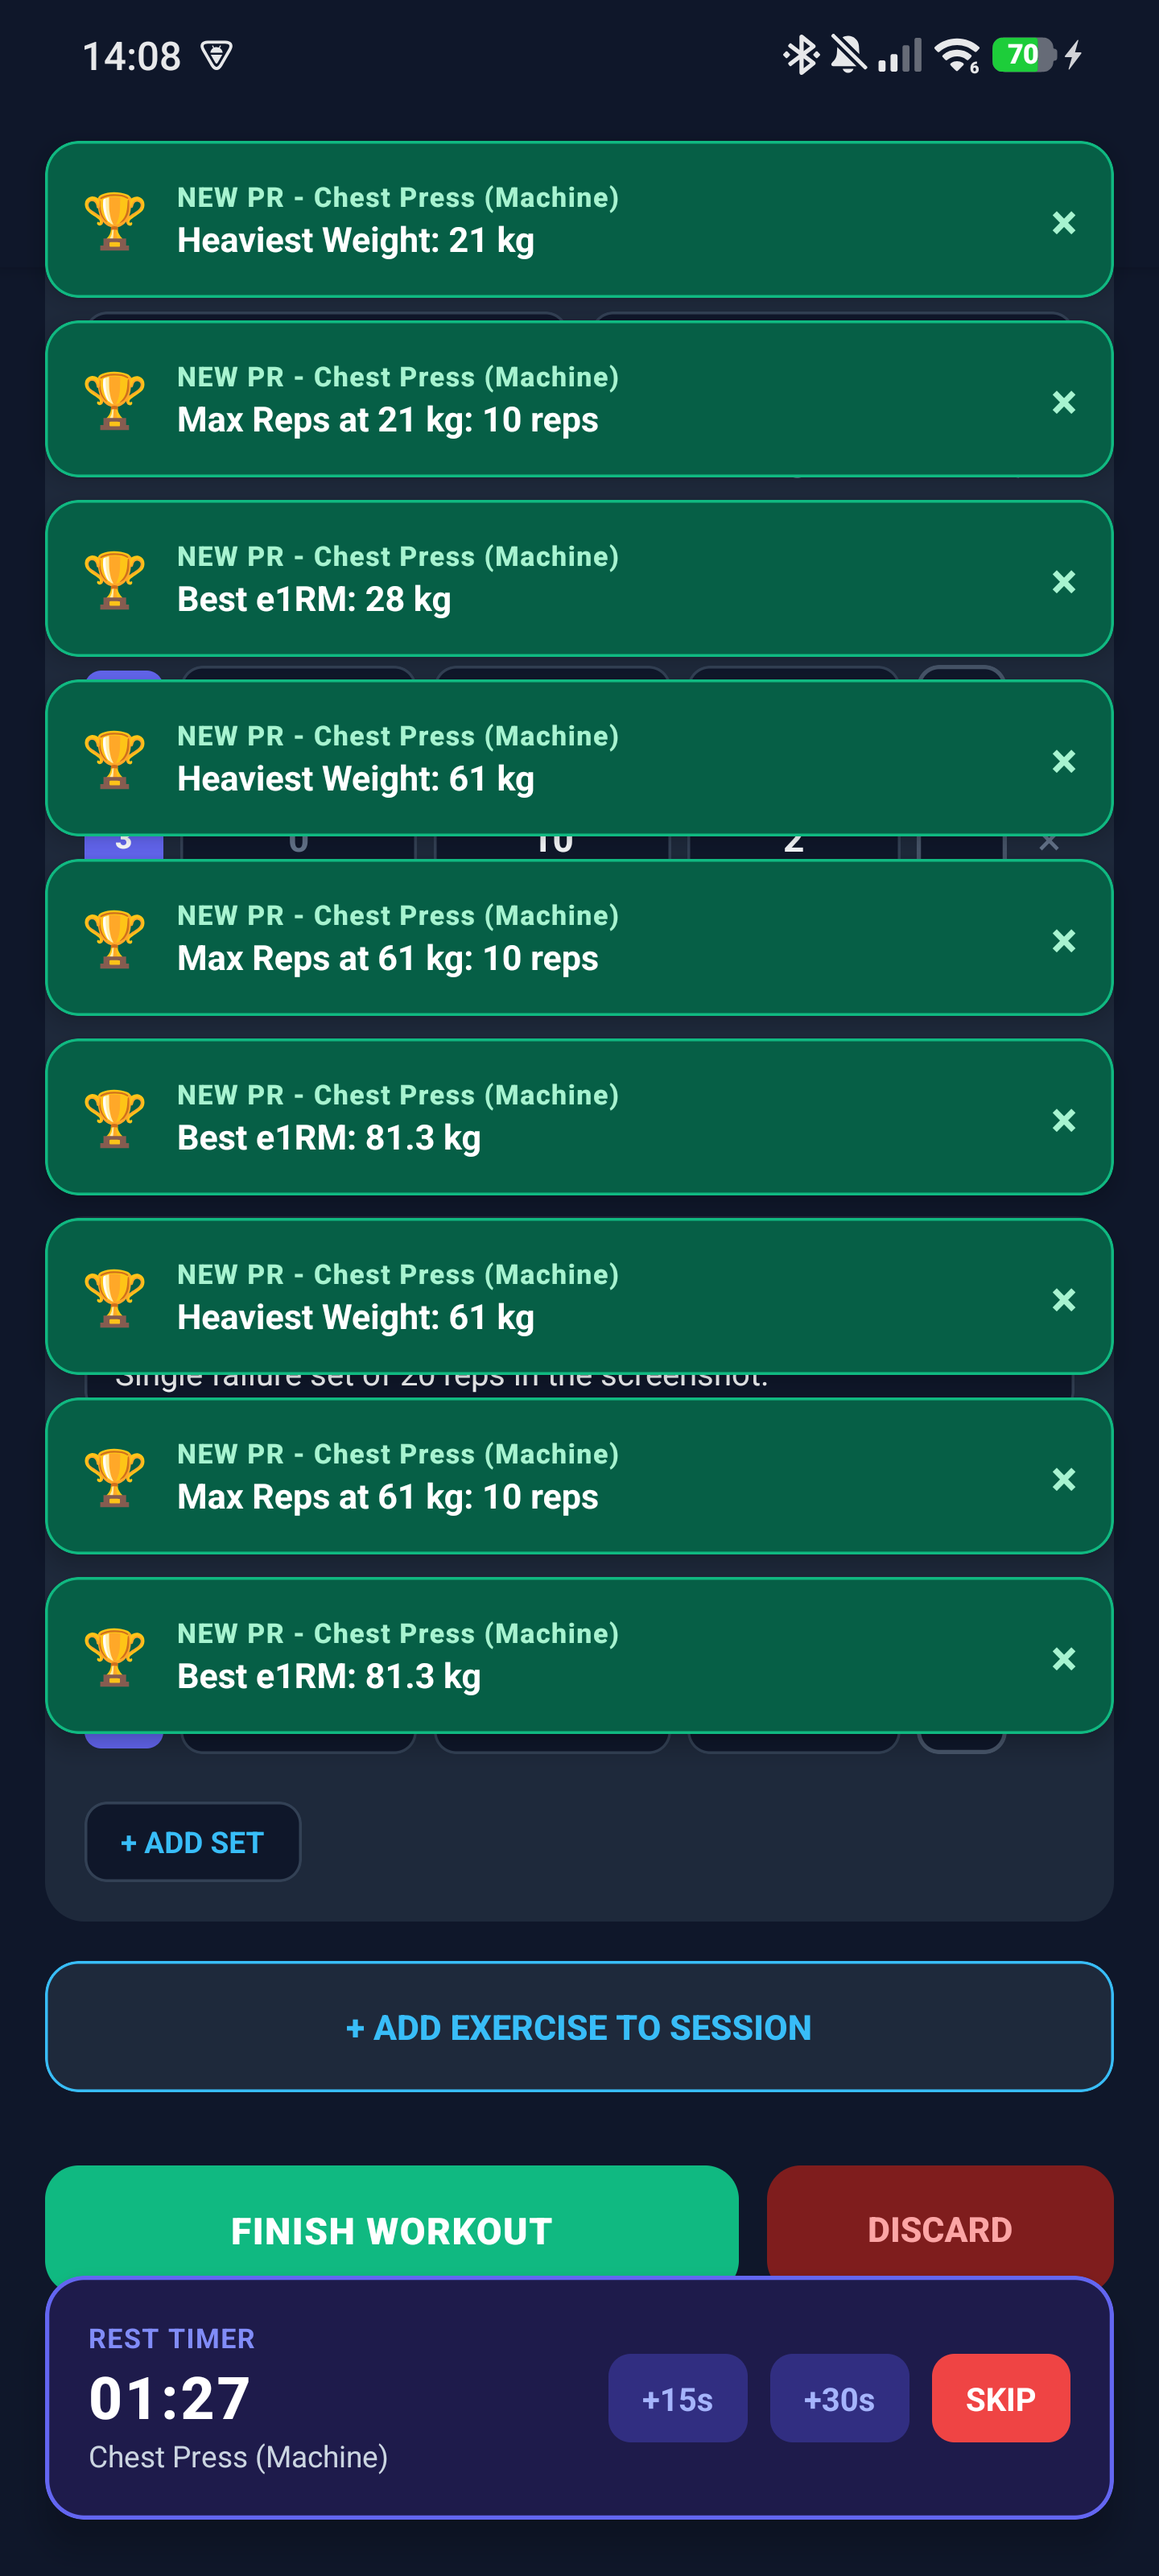
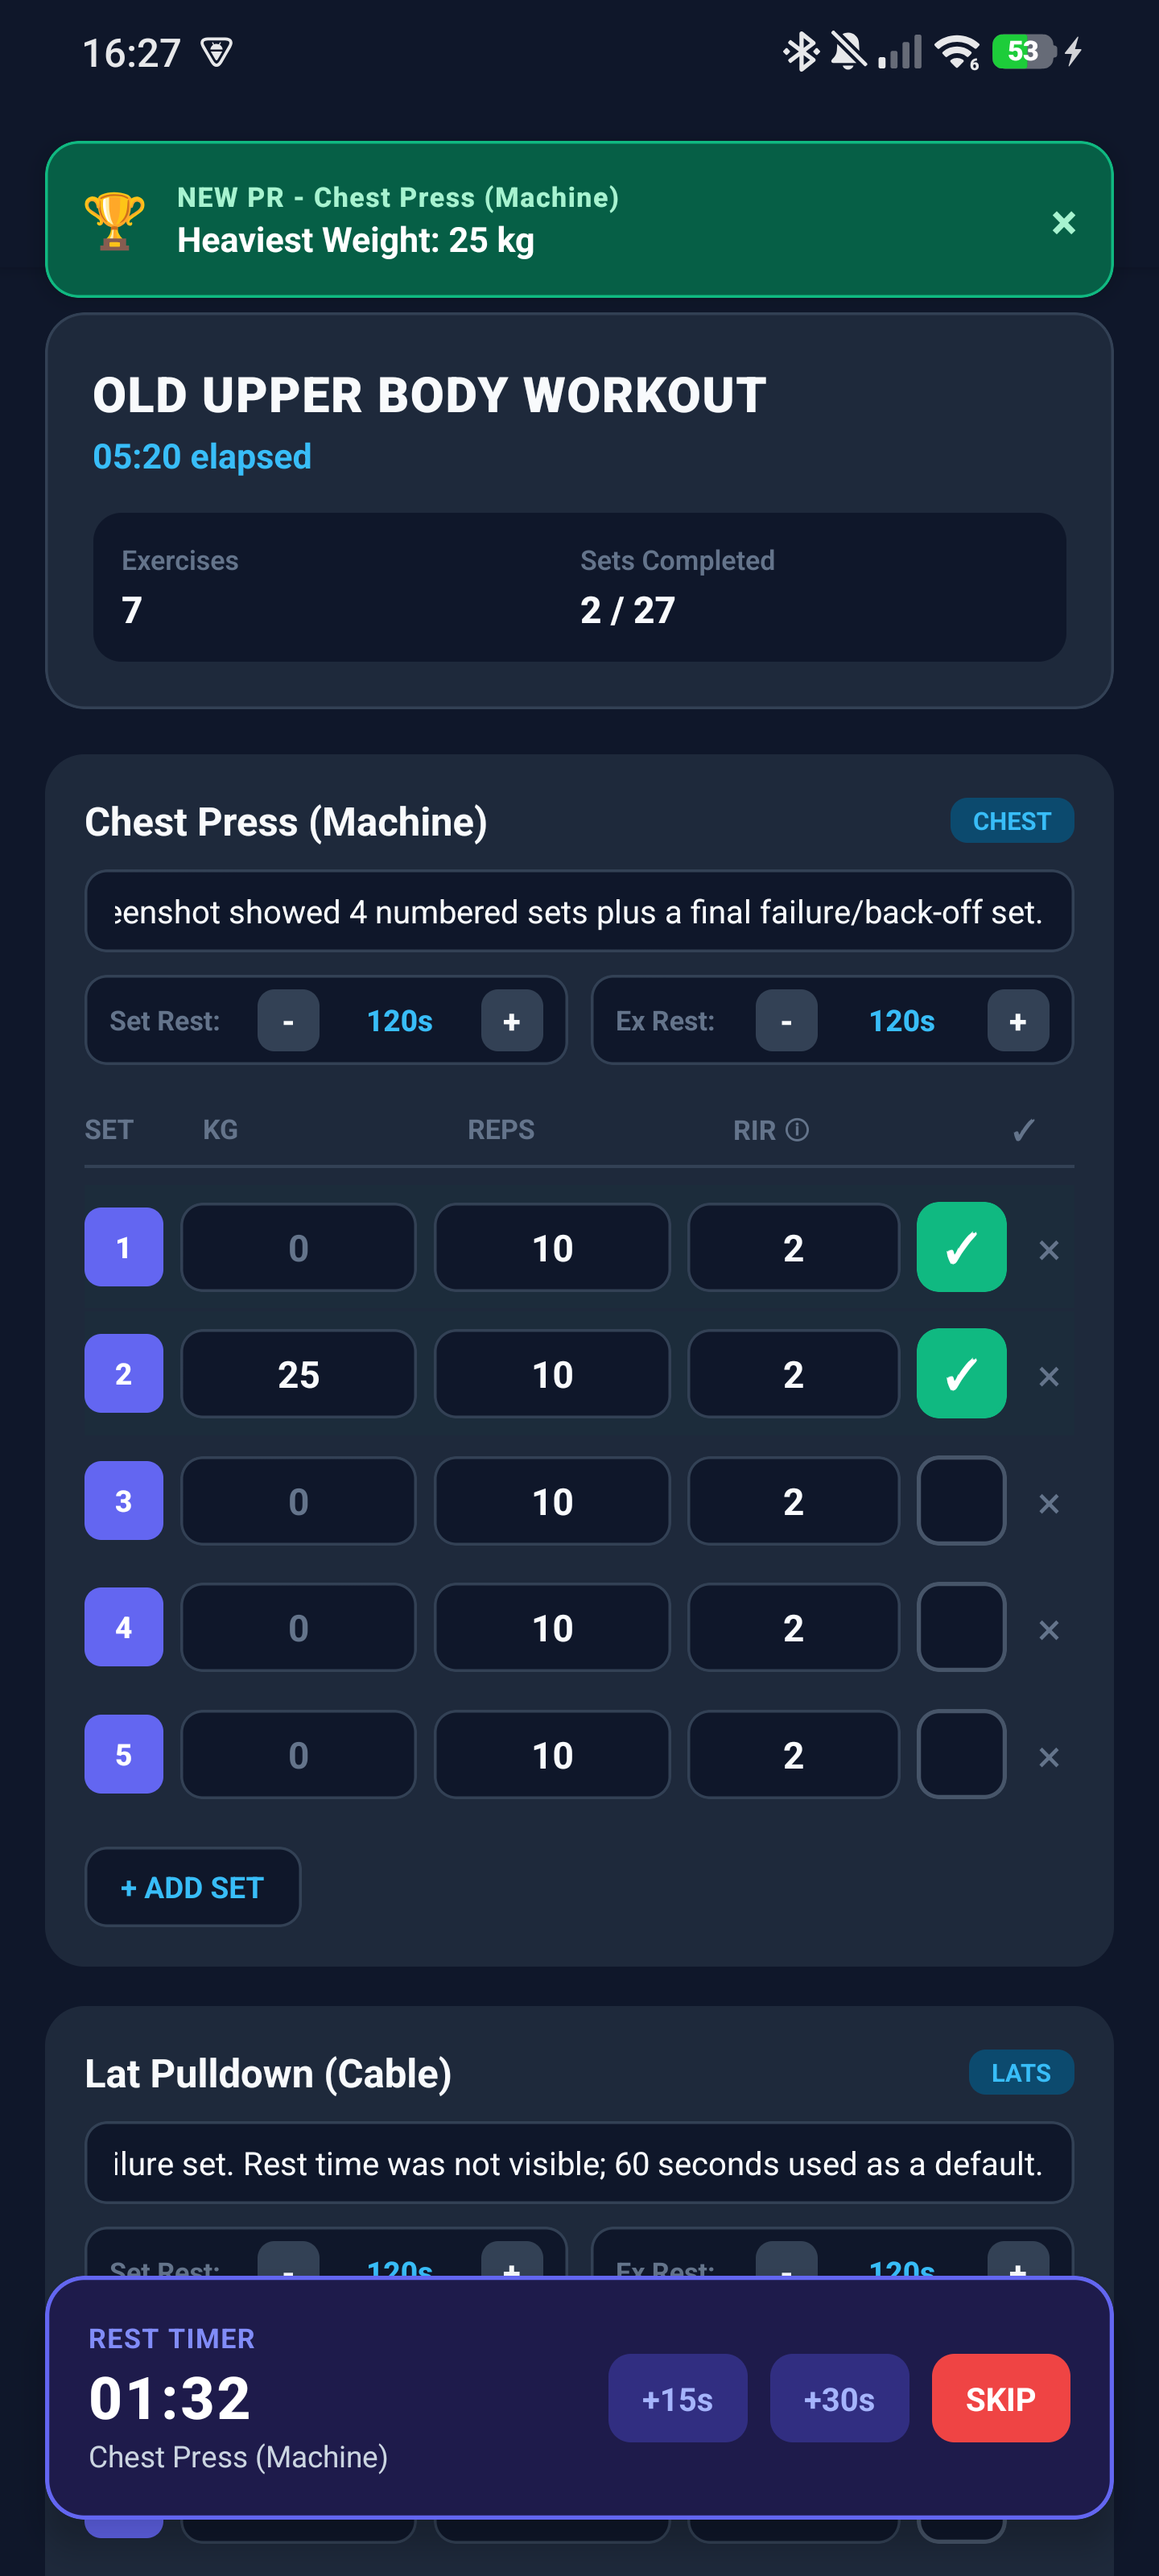
more readable readme

diff --git a/README.md b/README.md
@@ -1,25 +1,25 @@
 # 🏋 Progressive Workout Tracker
 
-**Your gym, in your pocket. No accounts. No cloud. No excuses.**
+**Progressive Workout Tracker** is a fully offline workout logger for Android. Plan your routines, log every set with weight, reps, and RIR, and let the app track your personal records, volume, and progress.
 
-Progressive Workout Tracker is a fast, beautiful, fully offline workout logger for Android. Plan routines, log every set with weight, reps and RIR, and let the app track your personal records, volume, and progress — automatically.
+I built it because every workout app I tried wanted an account, a subscription, or cloud sync for something that should just live on my phone.
 
 > [!TIP]
-> 📲 **Download the latest APK from [GitHub Releases](https://github.com/Moa1er/workout-app/releases/latest).** Install it, tap a routine, and start training.
+> 📲 Want to try it? Grab the latest APK from [GitHub Releases](https://github.com/Moa1er/your-offline-workout-app/releases/latest), install it, and start your first routine.
 
 ---
 
-## ✨ Why you'll love it
+## Why I built it
 
-| | |
-|---|---|
-| **⚡ Log in seconds** | Tap, tap, done. Set checkmarks, automatic rest timers, and previous-lift prefills keep you training, not typing. |
-| **🏆 Automatic PRs** | Heaviest weight, most reps at a weight, and best estimated 1RM are detected the moment you complete a set. |
-| **📈 Real progress charts** | Volume over time, muscle-by-muscle split, and per-exercise progression — see yourself get stronger. |
-| **⏱ Smart rest timers** | Auto-start between sets, +15s/+30s on demand, and a local notification so you never miss a set. |
-| **📋 Routines** | Build reusable templates with target sets, rep ranges, RIR, and rest times. Start one in one tap. |
-| **🔁 Hevy compatible** | Import your entire Hevy history (supersets included) or export back. Switch anytime. |
-| **🔒 100% yours** | Everything lives in a local SQLite database on your device. Offline always, private by design. |
+I like things that work without me having to think about them. A workout tracker should be: open the app, tap a few times, lift. That's it.
+
+- **Logging takes seconds.** Previous lifts are pre-filled, rest timers start automatically, and you spend your time training instead of typing.
+- **PRs are automatic.** Heaviest weight, most reps at a weight, and best estimated 1RM are detected the moment you finish a set.
+- **Progress you can see.** Volume over time, muscle-by-muscle split, and per-exercise charts.
+- **Rest timers that help, not nag.** Auto-start between sets, +15s/+30s when you need more time, and a notification when it's time to lift again.
+- **Routines you can reuse.** Build templates with target sets, rep ranges, RIR, and rest times, then start one with a tap.
+- **Hevy-compatible.** Import your entire Hevy history (supersets included) or export back. Switch whenever you want.
+- **Offline and private.** Everything lives in a local SQLite database on your device. No account, no ads, no trackers.
 
 ---
 
@@ -43,26 +43,26 @@ Progressive Workout Tracker is a fast, beautiful, fully offline workout logger f
 
 | Settings & data tools |
 |---|
-| ![Settings](docs/screenshots/settings.png) |
+| <img src="docs/screenshots/settings.png" width="280" alt="Settings" /> |
 
 ---
 
 ## 🚀 Getting started
 
-1. Download the APK from **[GitHub Releases](https://github.com/Moa1er/workout-app/releases/latest)**.
-2. Open the file and allow installation from your browser or file manager when prompted.
-3. Launch **Progressive Workout Tracker**, tap a routine, and go lift.
+1. Download the APK from [GitHub Releases](https://github.com/Moa1er/your-offline-workout-app/releases/latest).
+2. Open the file and allow installation when your phone asks.
+3. Open **Progressive Workout Tracker**, pick a routine, and go lift.
 
-New to the app? Install the built-in **Full Upper Body** routine on first launch, or import years of history from a Hevy CSV export in **Settings → Import Data from Hevy (CSV)**.
+New to the app? On first launch you can install the built-in **Full Upper Body** routine, or import years of Hevy history from a CSV export via **Settings → Import Data from Hevy (CSV)**.
 
 ---
 
 ## 🛠 Features in detail
 
-- **Active workout screen** — exercise-by-exercise set tables with weight (kg/lb), reps, RIR, set type cycling (Working / Warm-up / Failure / Drop set), exercise notes, and per-exercise rest overrides.
-- **Workout recovery** — close the app mid-workout and pick up exactly where you left off, even after a reboot.
-- **Rest timer** — auto-starts after every set (or after an exercise), with haptics, sound, a floating +15s/+30s/SKIP overlay, and a local notification.
-- **Personal records** — three automatic PR types per exercise, recalculated on every finished session, with celebration toasts as you earn them.
+- **Active workout screen** — set-by-set tables with weight (kg/lb), reps, RIR, set type cycling (Working / Warm-up / Failure / Drop set), exercise notes, and per-exercise rest overrides.
+- **Workout recovery** — close the app mid-workout and pick up right where you left off, even after a reboot.
+- **Rest timer** — auto-starts after every set (or exercise), with haptics, sound, a floating +15s/+30s/SKIP overlay, and a local notification.
+- **Personal records** — three PR types per exercise, recalculated after every finished session, with celebration toasts when you earn one.
 - **Progress dashboard** — training overview, total volume over time, muscle volume split, per-exercise charts (best weight / estimated 1RM / volume), and a PR timeline.
 - **History** — paginated session history with duration, working sets, volume, and full set-level detail.
 - **Templates** — create, edit, duplicate, and delete routines with target sets, rep ranges, RIR, and rest times.
@@ -72,7 +72,7 @@ New to the app? Install the built-in **Full Upper Body** routine on first launch
 
 ## 🔐 Privacy
 
-No account. No ads. No trackers. No network permission required. Your training data stays in a local SQLite database on your phone, and the only files that ever leave your device are the backups *you* choose to export.
+No account. No ads. No trackers. No network permission required. Your training data lives in a local SQLite database on your phone, and the only files that ever leave your device are the backups *you* choose to export.
 
 ---
 
